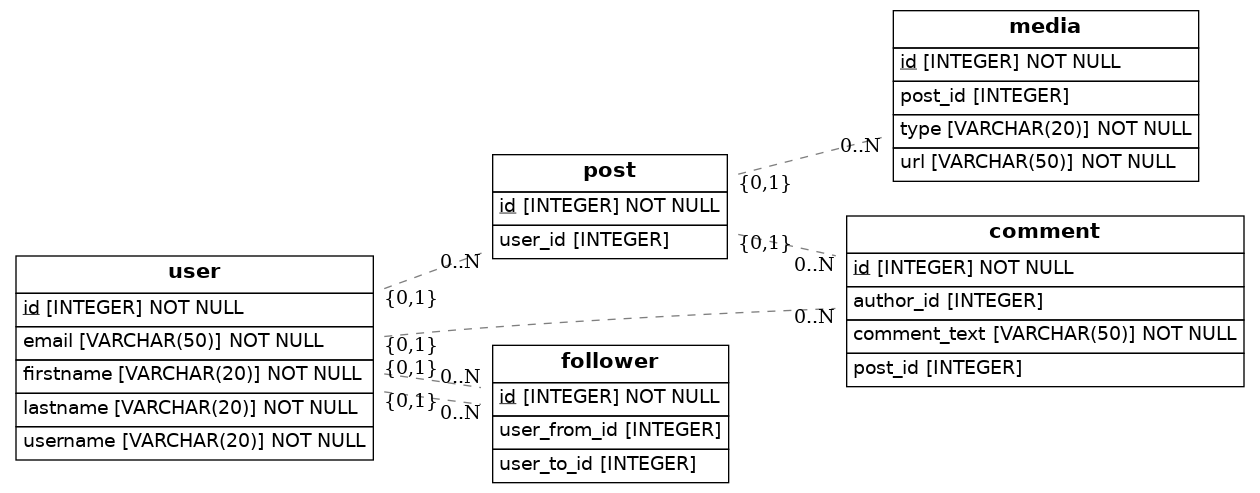
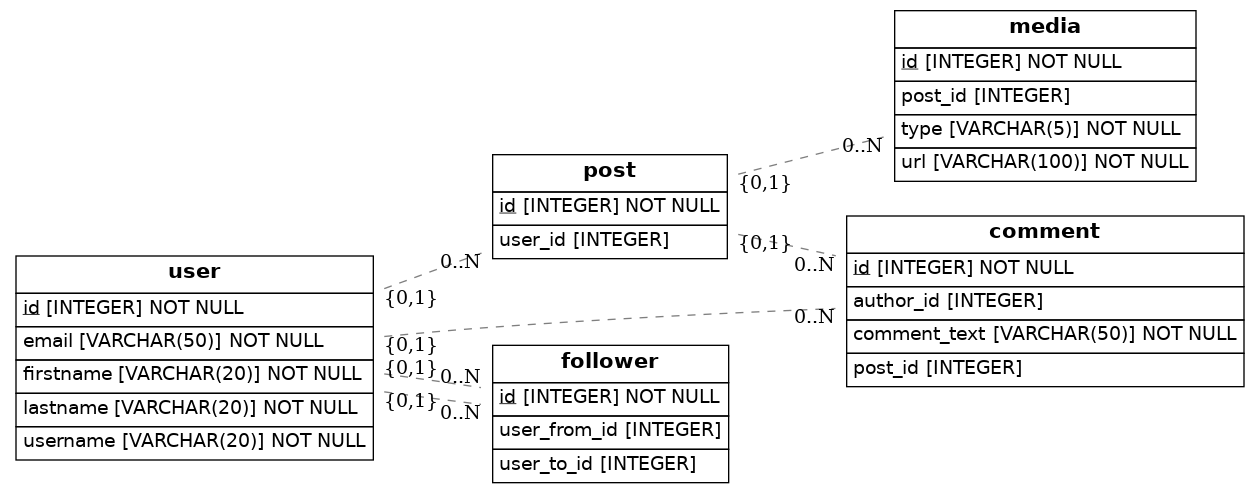
MediaType added

diff --git a/src/models.py b/src/models.py
@@ -1,11 +1,17 @@
 import os
 import sys
-from sqlalchemy import Column, ForeignKey, Integer, String
+from sqlalchemy import Column, ForeignKey, Integer, String, Enum
 from sqlalchemy.orm import relationship, declarative_base
 from sqlalchemy import create_engine
 from eralchemy2 import render_er
+import enum
 
 Base = declarative_base()
+
+class MediaType(enum.Enum):
+    IMAGE = 1
+    VIDEO = 2
+
 
 class User(Base):
     __tablename__ = 'user'  
@@ -31,8 +37,8 @@ class Media(Base):
     __tablename__ = 'media'
 
     id = Column(Integer, primary_key=True)
-    type = Column(String(20), nullable=False)
-    url = Column(String(50), nullable=False)
+    type = Column(Enum(MediaType), nullable=False)
+    url = Column(String(100), nullable=False)
 
     post_id = Column(Integer, ForeignKey('post.id'))
     post = relationship(Post)
